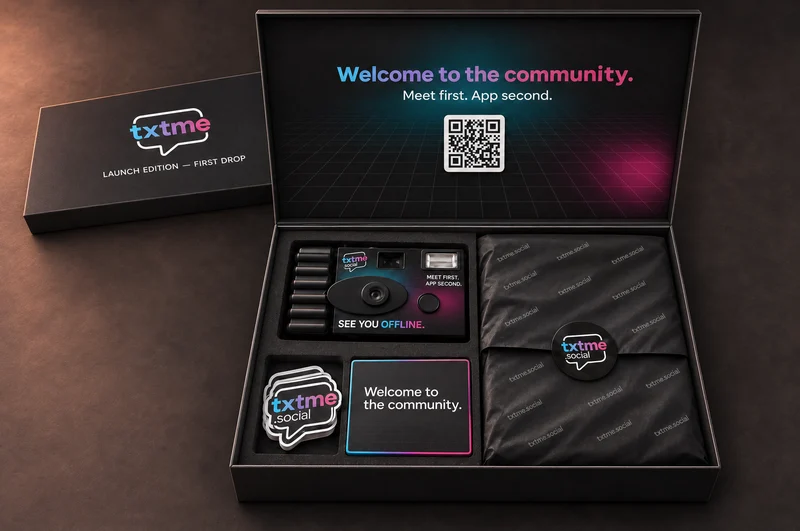
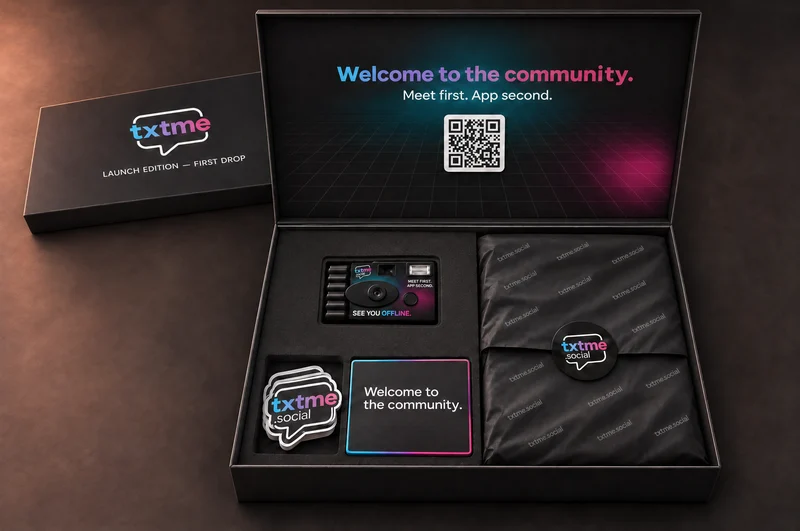
Visual: camera at real size, matches the drawings

diff --git a/index.html b/index.html
@@ -172,7 +172,7 @@ document.documentElement.classList.add('wartet');
       <span class="pin" style="left:80%;top:31%">3</span>
       <span class="pin" style="left:65.5%;top:26%">4</span>
       <span class="pin" style="left:33%;top:64%">5</span>
-      <span class="pin" style="left:50%;top:44.5%">6</span>
+      <span class="pin" style="left:47%;top:48%">6</span>
       <span class="pin" style="left:34.5%;top:71.5%">7</span>
       <span class="pin" style="left:52%;top:80%">8</span>
       <span class="pin" style="left:77%;top:51%">9</span>
@@ -300,7 +300,7 @@ document.documentElement.classList.add('wartet');
     <div class="parts">
       <article class="part"><div class="ph"><img src="img/part-outer-lid.webp" alt="Outer lid" loading="lazy" width="1000" height="635"></div><div class="tx"><span class="num">1 · Packaging</span><h3>Outer lid</h3><dl><dt>Size</dt><dd>409 × 269 × 35 mm outside · 403 × 263 inside</dd><dt>Material</dt><dd>Rigid grey board, wrapped in matte black paper</dd><dt>Print</dt><dd>txtme.social logo in colour, «LAUNCH EDITION — FIRST DROP» in white, centred</dd><dt>Finish</dt><dd>Matte, option: soft-touch</dd></dl></div></article>
       <article class="part"><div class="ph fit"><img src="img/part-lid-inside.webp" alt="Box with hinged lid, inside print" loading="lazy" width="1000" height="454"></div><div class="tx"><span class="num">2 – 4 · Packaging</span><h3>Box with hinged lid</h3><dl><dt>Size</dt><dd>Base 400 × 260 × 80 mm, lid 25 mm</dd><dt>Material</dt><dd>Rigid grey board, wrapped in matte black paper, paper hinge along the back edge</dd><dt>Print inside</dt><dd>Full surface 394 × 254 mm: grid, glow, welcome line, QR code on white field</dd><dt>Outside</dt><dd>Plain black</dd></dl></div></article>
-      <article class="part"><div class="ph"><img src="img/part-camera.webp" alt="Foam insert with camera" loading="lazy" width="1000" height="532"></div><div class="tx"><span class="num">5 · Packaging</span><h3>Foam insert</h3><dl><dt>Size</dt><dd>202 × 254 × 61 mm</dd><dt>Material</dt><dd>Black foam (EVA or PE)</dd><dt>Cut-outs</dt><dd>Back row: camera 114 × 69 × 25 · front row: stickers 66 × 66 × 6 and card 109 × 78 × 3.5, side by side</dd><dt>Note</dt><dd>Small finger notch at the card</dd></dl></div></article>
+      <article class="part"><div class="ph"><img src="img/part-camera.webp" alt="Foam insert with camera" loading="lazy" width="1000" height="550"></div><div class="tx"><span class="num">5 · Packaging</span><h3>Foam insert</h3><dl><dt>Size</dt><dd>202 × 254 × 61 mm</dd><dt>Material</dt><dd>Black foam (EVA or PE)</dd><dt>Cut-outs</dt><dd>Back row: camera 114 × 69 × 25 · front row: stickers 66 × 66 × 6 and card 109 × 78 × 3.5, side by side</dd><dt>Note</dt><dd>Small finger notch at the card</dd></dl></div></article>
       <article class="part"><div class="ph"><img src="img/part-card.webp" alt="Welcome card" loading="lazy" width="1000" height="774"></div><div class="tx"><span class="num">8 · Print</span><h3>Welcome card</h3><dl><dt>Size</dt><dd>105 × 74 mm (A7)</dd><dt>Material</dt><dd>Thick black board, about 1.5–2 mm</dd><dt>Print</dt><dd>«Welcome to the community.» in white</dd><dt>Finish</dt><dd>Coloured edge cyan to pink, light blind embossing of the grid</dd></dl></div></article>
       <article class="part"><div class="ph"><img src="img/part-stickers.webp" alt="Sticker set" loading="lazy" width="1000" height="1135"></div><div class="tx"><span class="num">7 · Print</span><h3>Sticker set</h3><dl><dt>Size</dt><dd>About 60 mm</dd><dt>Material</dt><dd>Vinyl, die-cut along the logo</dd><dt>Print</dt><dd>Logo in colour on black, white contour</dd><dt>Quantity</dt><dd>Per box to be confirmed</dd></dl></div></article>
       <article class="part"><div class="ph"><img src="img/part-tissue.webp" alt="T-shirt in printed tissue paper with seal sticker" loading="lazy" width="1000" height="1000"></div><div class="tx"><span class="num">9 – 10 · Print</span><h3>Tissue paper and seal</h3><dl><dt>Tissue</dt><dd>Black tissue paper, «txtme.social» printed as a fine diagonal pattern in grey</dd><dt>Seal</dt><dd>Round sticker Ø 50 mm, logo on black, gloss</dd><dt>Use</dt><dd>Wraps the folded T-shirt, closed with the seal</dd></dl></div></article>
@@ -398,7 +398,7 @@ document.documentElement.classList.add('wartet');
 <footer>
   <div class="wrap">
     <span>txtme.social · Launch Edition Box · Production brief · 8 November 2026</span>
-    <span>The image is a concept visual; the camera appears larger in it than its real 108 mm. The drawings are binding.</span>
+    <span>The image is a concept visual, checked against the drawings. The drawings are binding.</span>
   </div>
 </footer>
 </body>
